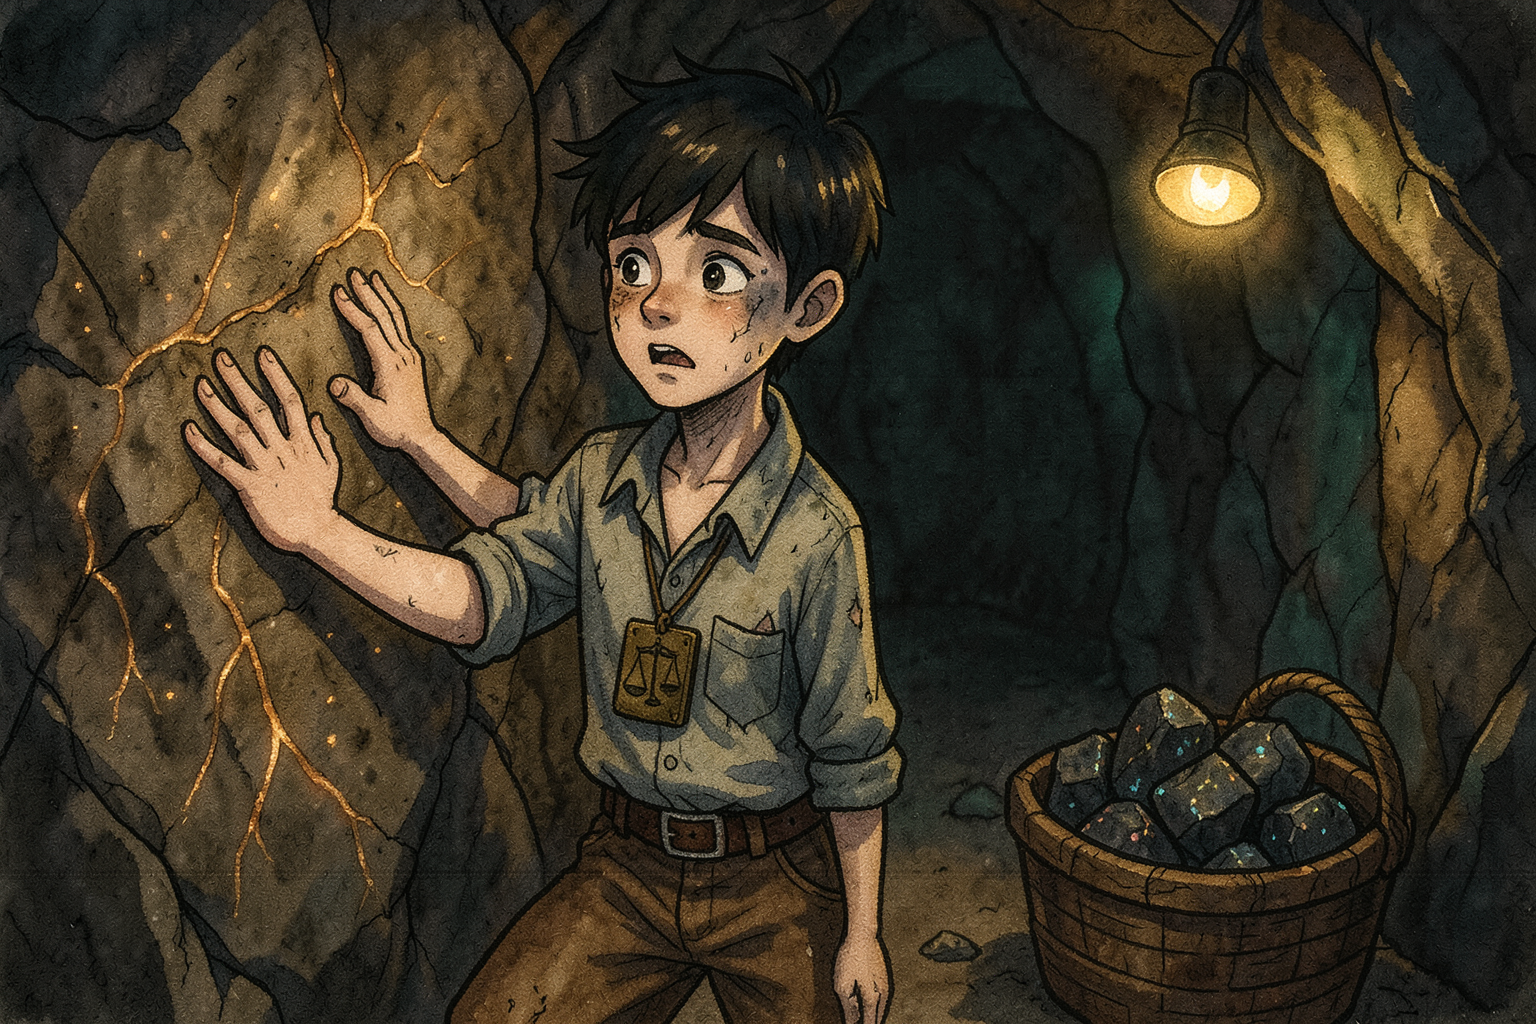
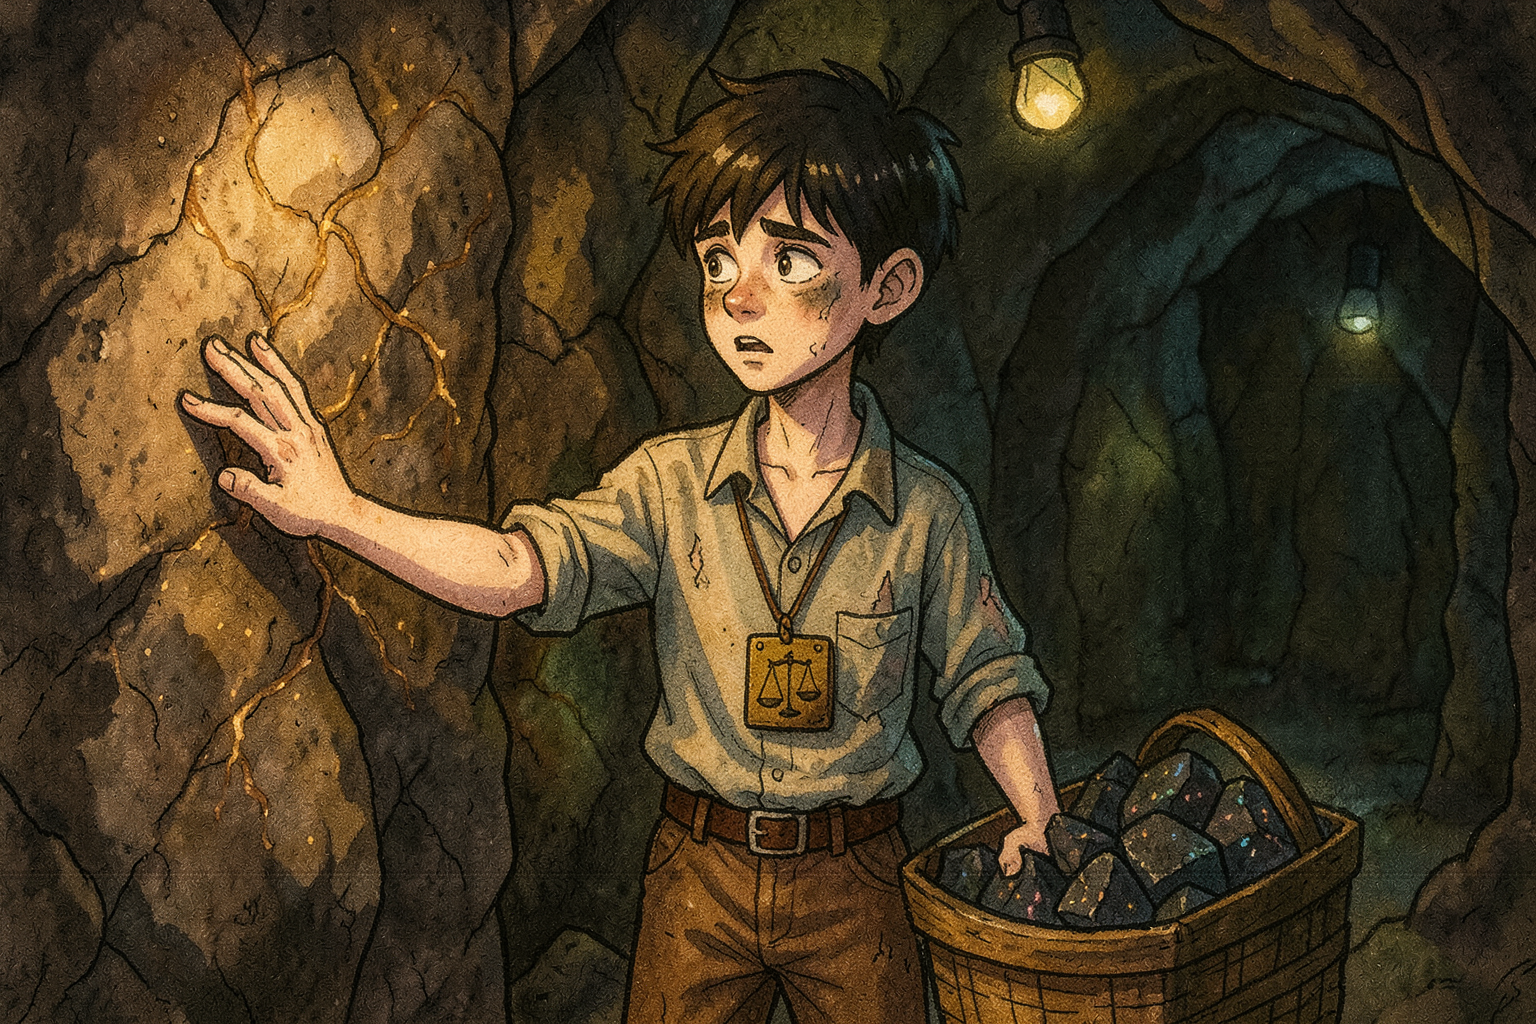
B3/B5: Tuchhalle-Prüfung und Talin neu (zwei Arme)

diff --git a/docs/auftraege.md b/docs/auftraege.md
@@ -295,8 +295,8 @@ Neue Szene in Perle 7 (Kontrolle an der Orinbrücke für Gesuchte), Beschreibung
 
 - [x] **B1 Orinbrücke:** `docs/art/szenen/perle-7/szene-orinbruecke-kontrolle.png` mit `szene-orinbruecke-kontrolle.prompt.txt` (Referenzen stehen in der ersten Zeile), 1536×1024, 6 Seeds, bestes wählen. **Prüfliste:** Steckbrief zeigt nur die leere Rückseite (kein Gesicht, keine Schrift) · zwei Söldner im Stil von `soeldner-waage-einzel` · Gänse und Karren im Vordergrund · keine Hände oder Füße des Betrachters · Brücke aus Stein über einen Fluss. Klappt es nach zwei Runden nicht: bestes Bild nehmen und die Schwäche im README notieren (nicht nachfragen). → **19.10.2026:** `szene-orinbruecke-kontrolle.png`, Seed 4 (erste Runde).
 - [x] **B2 Abschluss:** Übersicht Perle 7 neu bauen, Seed im README eintragen, hier abhaken, committen, pushen. → **19.10.2026:** Übersicht Perle 7 neu, README ergänzt.
-- [ ] **B3 Tuchhalle-Prüfung neu (Perle 3, Auftrag vom 19.10.2026):** `docs/art/szenen/perle-3/szene-tuchhalle-pruefung.png` – Pasco hat im Player gesehen: Kettrich hat **drei Arme**, das Gesicht ist verzerrt, eine Linse sitzt auf der Stirn; außerdem hat der Gnomenjunge Zöpfe wie ein Mädchen. Neu erzeugen mit dem nachgeschärften `szene-tuchhalle-pruefung.prompt.txt` (Referenzen Kettrich + Hulda + Ortsbild), bis zu zwei Runden à 6 Seeds. **Prüfliste:** Kettrich mit genau zwei Armen und zwei Händen · Gesicht wie `kettrich-einzel` · steht auf dem Podest · Gnomenjunge mit kurzen Haaren und Schutzbrille, keine Zöpfe · Hulda mit zwei dicken Zöpfen · keine Hände des Betrachters. Danach die Brille per Bildbearbeitung mit `szene-tuchhalle-pruefung-brille.prompt.txt` (das neue Bild als einzige Referenz, 4 Seeds; prüfen, dass Gesicht und Arme unverändert bleiben). Klappt die Brille nicht: normale Brille hinnehmen – wichtiger sind Arme und Gesicht.
-- [ ] **B5 Talin neu (Perle 5):** `docs/art/szenen/perle-5/szene-talin.png` – Talin hat **drei Arme** (zwei Hände an der Wand, ein dritter Arm hängt herab). Neu mit dem geänderten `szene-talin.prompt.txt` (eine Hand an der Wand, die andere am Korb), bis zu zwei Runden à 6 Seeds. **Prüfliste:** genau zwei Arme und zwei Hände · Gesicht wie `talin-einzel` · Plakette mit Waage am Hals · keine Hände des Betrachters.
+- [x] **B3 Tuchhalle-Prüfung neu (Perle 3, Auftrag vom 19.10.2026):** `docs/art/szenen/perle-3/szene-tuchhalle-pruefung.png` – Pasco hat im Player gesehen: Kettrich hat **drei Arme**, das Gesicht ist verzerrt, eine Linse sitzt auf der Stirn; außerdem hat der Gnomenjunge Zöpfe wie ein Mädchen. Neu erzeugen mit dem nachgeschärften `szene-tuchhalle-pruefung.prompt.txt` (Referenzen Kettrich + Hulda + Ortsbild), bis zu zwei Runden à 6 Seeds. **Prüfliste:** Kettrich mit genau zwei Armen und zwei Händen · Gesicht wie `kettrich-einzel` · steht auf dem Podest · Gnomenjunge mit kurzen Haaren und Schutzbrille, keine Zöpfe · Hulda mit zwei dicken Zöpfen · keine Hände des Betrachters. Danach die Brille per Bildbearbeitung mit `szene-tuchhalle-pruefung-brille.prompt.txt` (das neue Bild als einzige Referenz, 4 Seeds; prüfen, dass Gesicht und Arme unverändert bleiben). Klappt die Brille nicht: normale Brille hinnehmen – wichtiger sind Arme und Gesicht. → **20.10.2026:** Seed 1; Brillen-Bearbeitung misslang (zusätzliche Augen), normale Brille behalten.
+- [x] **B5 Talin neu (Perle 5):** `docs/art/szenen/perle-5/szene-talin.png` – Talin hat **drei Arme** (zwei Hände an der Wand, ein dritter Arm hängt herab). Neu mit dem geänderten `szene-talin.prompt.txt` (eine Hand an der Wand, die andere am Korb), bis zu zwei Runden à 6 Seeds. **Prüfliste:** genau zwei Arme und zwei Hände · Gesicht wie `talin-einzel` · Plakette mit Waage am Hals · keine Hände des Betrachters. → **20.10.2026:** Seed 2 (erste Runde).
 - [ ] **B4 Abschluss:** Übersichten Perle 3 und 5 neu bauen, Seed im README eintragen, hier abhaken, committen, pushen.
 
 ## Bildprüfung in voller Größe (Auftrag vom 19.10.2026)

diff --git a/docs/art/szenen/perle-3/README.md b/docs/art/szenen/perle-3/README.md
@@ -183,3 +183,5 @@ Alle mit `tools/erzeuge-szene.ps1`, FLUX.2 klein 4B, je 6 Seeds. Übersichten: `
 **Zeichen der Leisen Hand (19.10.2026):** In `szene-beitritt-hand.png` sah der Aufnäher auf Finks Mütze wie ein Mittelfinger aus; mit `tools/zeichen-einsetzen.py` durch die Vorlage `requisiten/leise-hand-zeichen.png` ersetzt. Finks echte Psst-Geste mit der Hand im Bild ist richtig.
 
 **Überarbeitet (19.10.2026, Pasco):** Der eingesetzte Aufnäher wirkte wie per Copy & Paste aufgeklebt. Neu: Das Modell malt den Aufnäher selbst im Bildstil (`figuren/fink-abzeichen.prompt.txt`, Referenzen: Originalbild + `requisiten/leise-hand-zeichen.png`); weil es dabei teils auch Fink veränderte, wurde mit `tools/bereich-mischen.py` nur die Mützenpartie ins Original übernommen. `tools/zeichen-einsetzen.py` ist für Aufnäher nicht mehr zu verwenden (nur für flache Zeichen wie Kreide oder Schnitzerei).
+
+**Nachbesserung 20.10.2026 (B3):** `szene-tuchhalle-pruefung` neu, Seed 1 (Referenzen Kettrich, Hulda, Ortsbild): Kettrich mit zwei Armen auf dem Podest, Gnomenjunge mit kurzen Haaren und Schutzbrille, Hulda mit zwei Zöpfen. Die Brillen-Bearbeitung (4 Seeds) erzeugte zusätzliche Augen bzw. Linsentürme auf der Nase, deshalb normale Brille behalten.

diff --git a/docs/art/szenen/perle-5/README.md b/docs/art/szenen/perle-5/README.md
@@ -134,3 +134,5 @@ Alle mit `tools/erzeuge-szene.ps1`, FLUX.2 klein 4B, je 6 Seeds. Übersicht: `ue
 **Zeichen der Leisen Hand (19.10.2026):** In `szene-brief-in-wollmark.png` sah der Aufnäher auf Finks Mütze wie ein Mittelfinger aus; mit `tools/zeichen-einsetzen.py` durch die Vorlage `requisiten/leise-hand-zeichen.png` ersetzt.
 
 **`szene-brief-in-wollmark` neu (19.10.2026, Pasco):** In der alten Fassung stand Fink im Brunnen und hatte drei Hände. Prompt nachgeschärft (sitzt auf dem Rand, genau zwei Hände), Seed 9: zwei Hände (Apfel und Brief), Aufnäher mit Psst-Zeichen direkt mitgemalt.
+
+**Nachbesserung 20.10.2026 (B5):** `szene-talin` neu, Seed 2: genau zwei Arme (eine Hand an der Wand, eine am Korb), Plakette mit Waage am Hals.
